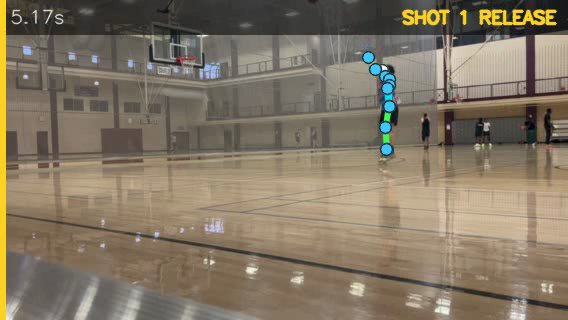
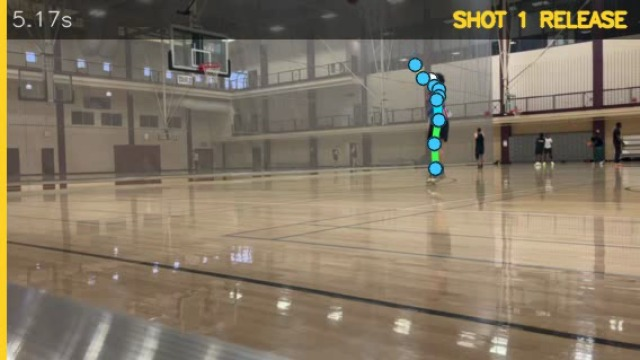
replace static images with video players in README demo section
- Crop both posters to 16:9 landscape (640×360) for consistent layout
- Use <video> tags with raw GitHub URLs + poster thumbnails
- Golf: golf_effects.mp4 with S1 Top frame as poster
- Basketball: basketball_overlay.mp4 with Shot 1 Release frame as poster
- Both videos: controls + muted + loop

diff --git a/README.md b/README.md
@@ -22,12 +22,18 @@
 <table>
 <tr>
 <td width="50%" align="center">
-<img src="docs/assets/yifan-golf-0520/overlay_poster.jpg" alt="Golf swing skeleton overlay — S1 Impact">
-<br><sub>⛳ <b>Golf · S1 Impact</b> · TopGolf · skeleton overlay + ball trail</sub>
+<video src="https://raw.githubusercontent.com/rayford295/swingform-ai/main/examples/yifan-golf-0520/golf_effects.mp4"
+  poster="docs/assets/yifan-golf-0520/overlay_poster.jpg"
+  controls muted loop width="100%">
+</video>
+<br><sub>⛳ <b>Golf · TopGolf</b> · skeleton overlay · ball trail · 2 swings detected</sub>
 </td>
 <td width="50%" align="center">
-<img src="docs/assets/yifan-basketball-0601/overlay_poster.jpg" alt="Basketball skeleton overlay — Shot 1 Release">
-<br><sub>🏀 <b>Basketball · Shot 1 Release</b> · indoor court · skeleton overlay</sub>
+<video src="https://raw.githubusercontent.com/rayford295/swingform-ai/main/examples/yifan-basketball-0601/basketball_overlay.mp4"
+  poster="docs/assets/yifan-basketball-0601/overlay_poster.jpg"
+  controls muted loop width="100%">
+</video>
+<br><sub>🏀 <b>Basketball · Indoor court</b> · skeleton overlay · release detected</sub>
 </td>
 </tr>
 </table>

diff --git a/README.zh-CN.md b/README.zh-CN.md
@@ -24,12 +24,18 @@
 <table>
 <tr>
 <td width="50%" align="center">
-<img src="docs/assets/yifan-golf-0520/overlay_poster.jpg" alt="高尔夫骨架叠加 — 第 1 杆击球瞬间">
-<br><sub>⛳ <b>高尔夫 · S1 击球瞬间</b> · TopGolf · 骨架叠加 + 球轨迹</sub>
+<video src="https://raw.githubusercontent.com/rayford295/swingform-ai/main/examples/yifan-golf-0520/golf_effects.mp4"
+  poster="docs/assets/yifan-golf-0520/overlay_poster.jpg"
+  controls muted loop width="100%">
+</video>
+<br><sub>⛳ <b>高尔夫 · TopGolf</b> · 骨架叠加 · 球轨迹 · 检测到 2 次挥杆</sub>
 </td>
 <td width="50%" align="center">
-<img src="docs/assets/yifan-basketball-0601/overlay_poster.jpg" alt="篮球骨架叠加 — 第 1 次出手">
-<br><sub>🏀 <b>篮球 · 第 1 次出手</b> · 室内球场 · 骨架叠加</sub>
+<video src="https://raw.githubusercontent.com/rayford295/swingform-ai/main/examples/yifan-basketball-0601/basketball_overlay.mp4"
+  poster="docs/assets/yifan-basketball-0601/overlay_poster.jpg"
+  controls muted loop width="100%">
+</video>
+<br><sub>🏀 <b>篮球 · 室内球场</b> · 骨架叠加 · 出手帧检测</sub>
 </td>
 </tr>
 </table>
